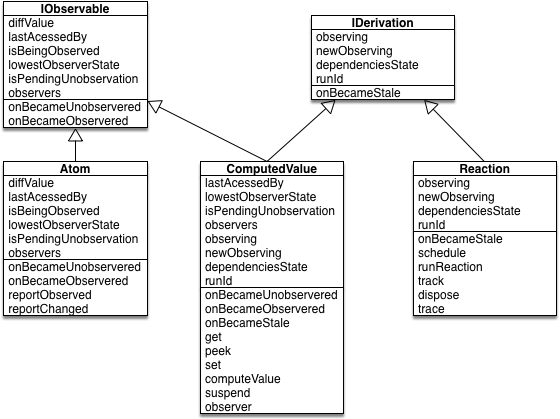
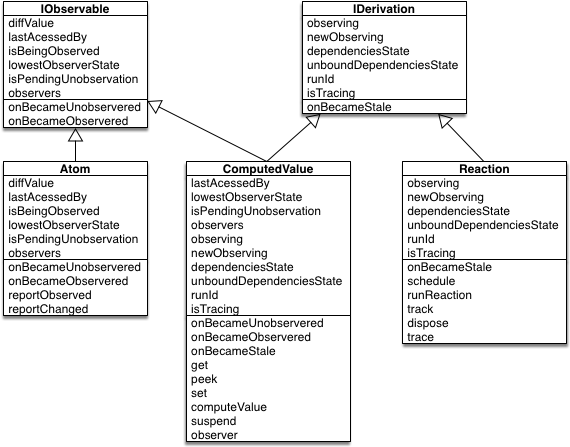
Site updated: 2018-08-09 22:39:32

Changed region(s): [[0.3036, 0.0, 0.8196, 1.0], [0.0, 0.0, 0.3339, 0.7757], [0.6982, 0.3103, 1.0, 0.7757]]

diff --git a/2018/07/15/react/react相关/mobx源码分析/index.html b/2018/07/15/react/react相关/mobx源码分析/index.html
@@ -118,7 +118,7 @@
 <meta property="og:image" content="http://yoursite.com/2018/07/15/react/react相关/mobx源码分析/observable-object-admin.png">
 <meta property="og:image" content="http://yoursite.com/2018/07/15/react/react相关/mobx源码分析/observable-interface.png">
 <meta property="og:image" content="http://yoursite.com/2018/07/15/react/react相关/mobx源码分析/core.png">
-<meta property="og:updated_time" content="2018-08-08T15:32:36.485Z">
+<meta property="og:updated_time" content="2018-08-09T14:21:21.552Z">
 <meta name="twitter:card" content="summary">
 <meta name="twitter:title" content="mobx源码分析">
 <meta name="twitter:description" content="思想实验在开篇之初，我们先作一番思想实验。借助于形象化思维，通过类比的方式，那样会更容易理解 mobx 的实现。 视线折回到明代，水患侵扰了淳安县境，治理地方水务的官员把这情况上报给知县海瑞，海瑞又上报总督胡宗宪，而胡宗宪呢，他派出快马，向京师呈报奏章，吁请内阁早日筹备赈灾的粮食。与此同时，东厂番子早已把眼线布满全国，不等内阁向嘉靖奏报，嘉靖早已知晓了千里之外的动向。当我们把这环节牵涉到的各级官员">
@@ -426,7 +426,7 @@
 <p>值得说明的是，mobx 处理对象时会批量添加计算属性或可观察属性，所以实现中使用 startBatch, endBatch 开启事务，使观察者的处理逻辑只执行一次。</p>
 <h2 id="核心机制"><a href="#核心机制" class="headerlink" title="核心机制"></a>核心机制</h2><p>处理问题有两种方式，从一般到具体，或者从具体到一般。在写作这篇文章时，我选择了后者，一是因为我在写作这篇文章的过程中才逐渐摸清 mobx 的设计和实现，二是因为我自身尚不具备足够的积淀，能站在更高的抽象维度对问题的一般面加以思索。observable 一节中对各种数据结构的处理无疑都是具体的，本节将介入抽象 observable，即对上一节中的公有特征 reportObserved, reportChanged 方法加以萃取。</p>
 <p>除此而外，本节还将涉及 mobx 的核心运作机制，从执行 action 促使 observable 数据变更，到 observable 数据变更引起 derivation 执行的一整个过程。</p>
-<h3 id="核心概念"><a href="#核心概念" class="headerlink" title="核心概念"></a>核心概念</h3><p>首先，我们先来看一下 mobx 设计的几种抽象概念：</p>
+<h3 id="概念"><a href="#概念" class="headerlink" title="概念"></a>概念</h3><p>首先，我们先来看一下 mobx 设计的几种抽象概念：</p>
 <ol>
 <li>observable: 响应式数据，最主要的特征是将数据变更信息上报给全局监听器。mobx 使用 IObservable 接口，Atom 类加以抽象。</li>
 <li>derivation: 衍生，响应式数据变更后执行的副作用函数，包含计算属性、反应。mobx 使用 IDerivation 接口，ComputedValue 类、Reaction 类加以抽象。</li>
@@ -437,9 +437,9 @@
 <p>此外，在 IObservable 接口中，mobx 还提供了 onBecameUnobservered, onBecameObservered 钩子，分别在 observable 不被监听或被监听时得到调用；lastAcessedBy（最后消费 observable 的观察者 id）, isBeingObserved 属性用于使 onBecameObservered 钩子不被反复调用；isPendingUnobservation 属性用于使 onBecameUnobservered 钩子不被反复执行。与配置项相当，属性需要通过翻阅源码中的逻辑实现，才能确切感知到该属性存在的价值。介于部分属性与核心流程无关，在这里将只作简要讨论或不作讨论。</p>
 <p>Atom 类除了实现 IObservable 接口以外，额外新增了 reportObserved, reportChanged 方法。顾名思义，当 observable 被观察时，需要显示调用 reportObserved 方法；当 observable 数据变更时，需要显示调用 reportChanged 方法。</p>
 <h4 id="derivation"><a href="#derivation" class="headerlink" title="derivation"></a>derivation</h4><p>derivation 可以理解为实际消费 observable 的观察者，因此，本文中的 observer 指代的也就是 derivation。在 mobx 实现中，observable, derivation 相互持有彼此的引用。IDerivation 接口的 observing 属性本次衍生在哪些可观察数据变更时执行；dependenciesState 属性为状态标识，用于标记本次衍生观察的数据是否已经改变，是否运行期处理逻辑；onBecomeStale 方法就是当观察数据变更时，运行的处理逻辑；newObserving 属性用于变更 observable, derivation 的依赖关系（在于观察者可改变观察的数据）；unboundDepsCount 属性用于统计本次衍生所观察的数据量，同 observable.diffValue 一样，目的都在于实时更新 observable, derivation 的依赖关系。</p>
-<p>除了上述属性和方法，IDerivation 接口还提供了 runId 属性，由它构成 observable.lastAcessedBy 的值；isTracing 属性的作用暂不作谈论。</p>
-<p>IDerivation 接口有两种实现，其一是作为反应的 Reaction 类，其二时作为计算属性的 ComputeValue 类。这两个类都实现了具体的 onBecomeStale 方法。Reaction.onBecomeStale 方法的表现是在所有响应式数据变更完成后，再对相关的衍生执行批处理操作。</p>
-
+<p>除了上述属性和方法，IDerivation 接口还提供了 runId 属性，由它构成 observable.lastAcessedBy 的值；isTracing 属性标记日志级别，以便在 onBecomeStale 方法执行前打印日志。</p>
+<p>IDerivation 接口有两种实现，其一是作为反应的 Reaction 类，其二是作为计算属性的 ComputeValue 类。这两个类都实现了具体的 onBecomeStale 方法。reaction.onBecomeStale 方法的表现是在所有响应式数据变更完成后，再对相关的衍生执行批处理操作，当然，在同一个批处理周期内，不会再对由 reaction 引起的衍生加以处理，这些衍生需要等待下一个批处理周期。ComputeValue 的特别之处是，它既是衍生，观察着数据变更；又是可观察数据，被其他衍生所观察。因此，computeValue.onBecomeStale 方法的处理逻辑是在其他衍生执行 onBecomeStale 过程中，重新获取计算属性的值。</p>
+<h3 id="流程"><a href="#流程" class="headerlink" title="流程"></a>流程</h3><h4 id="reportChanged"><a href="#reportChanged" class="headerlink" title="reportChanged"></a>reportChanged</h4>
       
     </div>
     
@@ -641,7 +641,7 @@
             
 
             
-              <div class="post-toc-content"><ol class="nav"><li class="nav-item nav-level-2"><a class="nav-link" href="#思想实验"><span class="nav-number">1.</span> <span class="nav-text">思想实验</span></a></li><li class="nav-item nav-level-2"><a class="nav-link" href="#响应式数据"><span class="nav-number">2.</span> <span class="nav-text">响应式数据</span></a><ol class="nav-child"><li class="nav-item nav-level-3"><a class="nav-link" href="#ObservableValue"><span class="nav-number">2.1.</span> <span class="nav-text">ObservableValue</span></a></li><li class="nav-item nav-level-3"><a class="nav-link" href="#ObservableObjectAdministration"><span class="nav-number">2.2.</span> <span class="nav-text">ObservableObjectAdministration</span></a></li><li class="nav-item nav-level-3"><a class="nav-link" href="#ObservableArrayAdministration"><span class="nav-number">2.3.</span> <span class="nav-text">ObservableArrayAdministration</span></a></li><li class="nav-item nav-level-3"><a class="nav-link" href="#ObservableMap"><span class="nav-number">2.4.</span> <span class="nav-text">ObservableMap</span></a></li><li class="nav-item nav-level-3"><a class="nav-link" href="#接口层"><span class="nav-number">2.5.</span> <span class="nav-text">接口层</span></a></li></ol></li><li class="nav-item nav-level-2"><a class="nav-link" href="#核心机制"><span class="nav-number">3.</span> <span class="nav-text">核心机制</span></a><ol class="nav-child"><li class="nav-item nav-level-3"><a class="nav-link" href="#核心概念"><span class="nav-number">3.1.</span> <span class="nav-text">核心概念</span></a><ol class="nav-child"><li class="nav-item nav-level-4"><a class="nav-link" href="#observable"><span class="nav-number">3.1.1.</span> <span class="nav-text">observable</span></a></li><li class="nav-item nav-level-4"><a class="nav-link" href="#derivation"><span class="nav-number">3.1.2.</span> <span class="nav-text">derivation</span></a></li></ol></li></ol></li></ol></div>
+              <div class="post-toc-content"><ol class="nav"><li class="nav-item nav-level-2"><a class="nav-link" href="#思想实验"><span class="nav-number">1.</span> <span class="nav-text">思想实验</span></a></li><li class="nav-item nav-level-2"><a class="nav-link" href="#响应式数据"><span class="nav-number">2.</span> <span class="nav-text">响应式数据</span></a><ol class="nav-child"><li class="nav-item nav-level-3"><a class="nav-link" href="#ObservableValue"><span class="nav-number">2.1.</span> <span class="nav-text">ObservableValue</span></a></li><li class="nav-item nav-level-3"><a class="nav-link" href="#ObservableObjectAdministration"><span class="nav-number">2.2.</span> <span class="nav-text">ObservableObjectAdministration</span></a></li><li class="nav-item nav-level-3"><a class="nav-link" href="#ObservableArrayAdministration"><span class="nav-number">2.3.</span> <span class="nav-text">ObservableArrayAdministration</span></a></li><li class="nav-item nav-level-3"><a class="nav-link" href="#ObservableMap"><span class="nav-number">2.4.</span> <span class="nav-text">ObservableMap</span></a></li><li class="nav-item nav-level-3"><a class="nav-link" href="#接口层"><span class="nav-number">2.5.</span> <span class="nav-text">接口层</span></a></li></ol></li><li class="nav-item nav-level-2"><a class="nav-link" href="#核心机制"><span class="nav-number">3.</span> <span class="nav-text">核心机制</span></a><ol class="nav-child"><li class="nav-item nav-level-3"><a class="nav-link" href="#概念"><span class="nav-number">3.1.</span> <span class="nav-text">概念</span></a><ol class="nav-child"><li class="nav-item nav-level-4"><a class="nav-link" href="#observable"><span class="nav-number">3.1.1.</span> <span class="nav-text">observable</span></a></li><li class="nav-item nav-level-4"><a class="nav-link" href="#derivation"><span class="nav-number">3.1.2.</span> <span class="nav-text">derivation</span></a></li></ol></li><li class="nav-item nav-level-3"><a class="nav-link" href="#流程"><span class="nav-number">3.2.</span> <span class="nav-text">流程</span></a><ol class="nav-child"><li class="nav-item nav-level-4"><a class="nav-link" href="#reportChanged"><span class="nav-number">3.2.1.</span> <span class="nav-text">reportChanged</span></a></li></ol></li></ol></li></ol></div>
             
 
           </div>

diff --git a/index.html b/index.html
@@ -421,7 +421,7 @@
 <p>值得说明的是，mobx 处理对象时会批量添加计算属性或可观察属性，所以实现中使用 startBatch, endBatch 开启事务，使观察者的处理逻辑只执行一次。</p>
 <h2 id="核心机制"><a href="#核心机制" class="headerlink" title="核心机制"></a>核心机制</h2><p>处理问题有两种方式，从一般到具体，或者从具体到一般。在写作这篇文章时，我选择了后者，一是因为我在写作这篇文章的过程中才逐渐摸清 mobx 的设计和实现，二是因为我自身尚不具备足够的积淀，能站在更高的抽象维度对问题的一般面加以思索。observable 一节中对各种数据结构的处理无疑都是具体的，本节将介入抽象 observable，即对上一节中的公有特征 reportObserved, reportChanged 方法加以萃取。</p>
 <p>除此而外，本节还将涉及 mobx 的核心运作机制，从执行 action 促使 observable 数据变更，到 observable 数据变更引起 derivation 执行的一整个过程。</p>
-<h3 id="核心概念"><a href="#核心概念" class="headerlink" title="核心概念"></a>核心概念</h3><p>首先，我们先来看一下 mobx 设计的几种抽象概念：</p>
+<h3 id="概念"><a href="#概念" class="headerlink" title="概念"></a>概念</h3><p>首先，我们先来看一下 mobx 设计的几种抽象概念：</p>
 <ol>
 <li>observable: 响应式数据，最主要的特征是将数据变更信息上报给全局监听器。mobx 使用 IObservable 接口，Atom 类加以抽象。</li>
 <li>derivation: 衍生，响应式数据变更后执行的副作用函数，包含计算属性、反应。mobx 使用 IDerivation 接口，ComputedValue 类、Reaction 类加以抽象。</li>
@@ -432,9 +432,9 @@
 <p>此外，在 IObservable 接口中，mobx 还提供了 onBecameUnobservered, onBecameObservered 钩子，分别在 observable 不被监听或被监听时得到调用；lastAcessedBy（最后消费 observable 的观察者 id）, isBeingObserved 属性用于使 onBecameObservered 钩子不被反复调用；isPendingUnobservation 属性用于使 onBecameUnobservered 钩子不被反复执行。与配置项相当，属性需要通过翻阅源码中的逻辑实现，才能确切感知到该属性存在的价值。介于部分属性与核心流程无关，在这里将只作简要讨论或不作讨论。</p>
 <p>Atom 类除了实现 IObservable 接口以外，额外新增了 reportObserved, reportChanged 方法。顾名思义，当 observable 被观察时，需要显示调用 reportObserved 方法；当 observable 数据变更时，需要显示调用 reportChanged 方法。</p>
 <h4 id="derivation"><a href="#derivation" class="headerlink" title="derivation"></a>derivation</h4><p>derivation 可以理解为实际消费 observable 的观察者，因此，本文中的 observer 指代的也就是 derivation。在 mobx 实现中，observable, derivation 相互持有彼此的引用。IDerivation 接口的 observing 属性本次衍生在哪些可观察数据变更时执行；dependenciesState 属性为状态标识，用于标记本次衍生观察的数据是否已经改变，是否运行期处理逻辑；onBecomeStale 方法就是当观察数据变更时，运行的处理逻辑；newObserving 属性用于变更 observable, derivation 的依赖关系（在于观察者可改变观察的数据）；unboundDepsCount 属性用于统计本次衍生所观察的数据量，同 observable.diffValue 一样，目的都在于实时更新 observable, derivation 的依赖关系。</p>
-<p>除了上述属性和方法，IDerivation 接口还提供了 runId 属性，由它构成 observable.lastAcessedBy 的值；isTracing 属性的作用暂不作谈论。</p>
-<p>IDerivation 接口有两种实现，其一是作为反应的 Reaction 类，其二时作为计算属性的 ComputeValue 类。这两个类都实现了具体的 onBecomeStale 方法。Reaction.onBecomeStale 方法的表现是在所有响应式数据变更完成后，再对相关的衍生执行批处理操作。</p>
-
+<p>除了上述属性和方法，IDerivation 接口还提供了 runId 属性，由它构成 observable.lastAcessedBy 的值；isTracing 属性标记日志级别，以便在 onBecomeStale 方法执行前打印日志。</p>
+<p>IDerivation 接口有两种实现，其一是作为反应的 Reaction 类，其二是作为计算属性的 ComputeValue 类。这两个类都实现了具体的 onBecomeStale 方法。reaction.onBecomeStale 方法的表现是在所有响应式数据变更完成后，再对相关的衍生执行批处理操作，当然，在同一个批处理周期内，不会再对由 reaction 引起的衍生加以处理，这些衍生需要等待下一个批处理周期。ComputeValue 的特别之处是，它既是衍生，观察着数据变更；又是可观察数据，被其他衍生所观察。因此，computeValue.onBecomeStale 方法的处理逻辑是在其他衍生执行 onBecomeStale 过程中，重新获取计算属性的值。</p>
+<h3 id="流程"><a href="#流程" class="headerlink" title="流程"></a>流程</h3><h4 id="reportChanged"><a href="#reportChanged" class="headerlink" title="reportChanged"></a>reportChanged</h4>
           
         
       

diff --git a/css/main.css b/css/main.css
@@ -1816,7 +1816,7 @@ pre .javascript .function {
   width: 4px;
   height: 4px;
   border-radius: 50%;
-  background: #3c1c7f;
+  background: #a21bff;
 }
 .links-of-blogroll {
   font-size: 13px;
